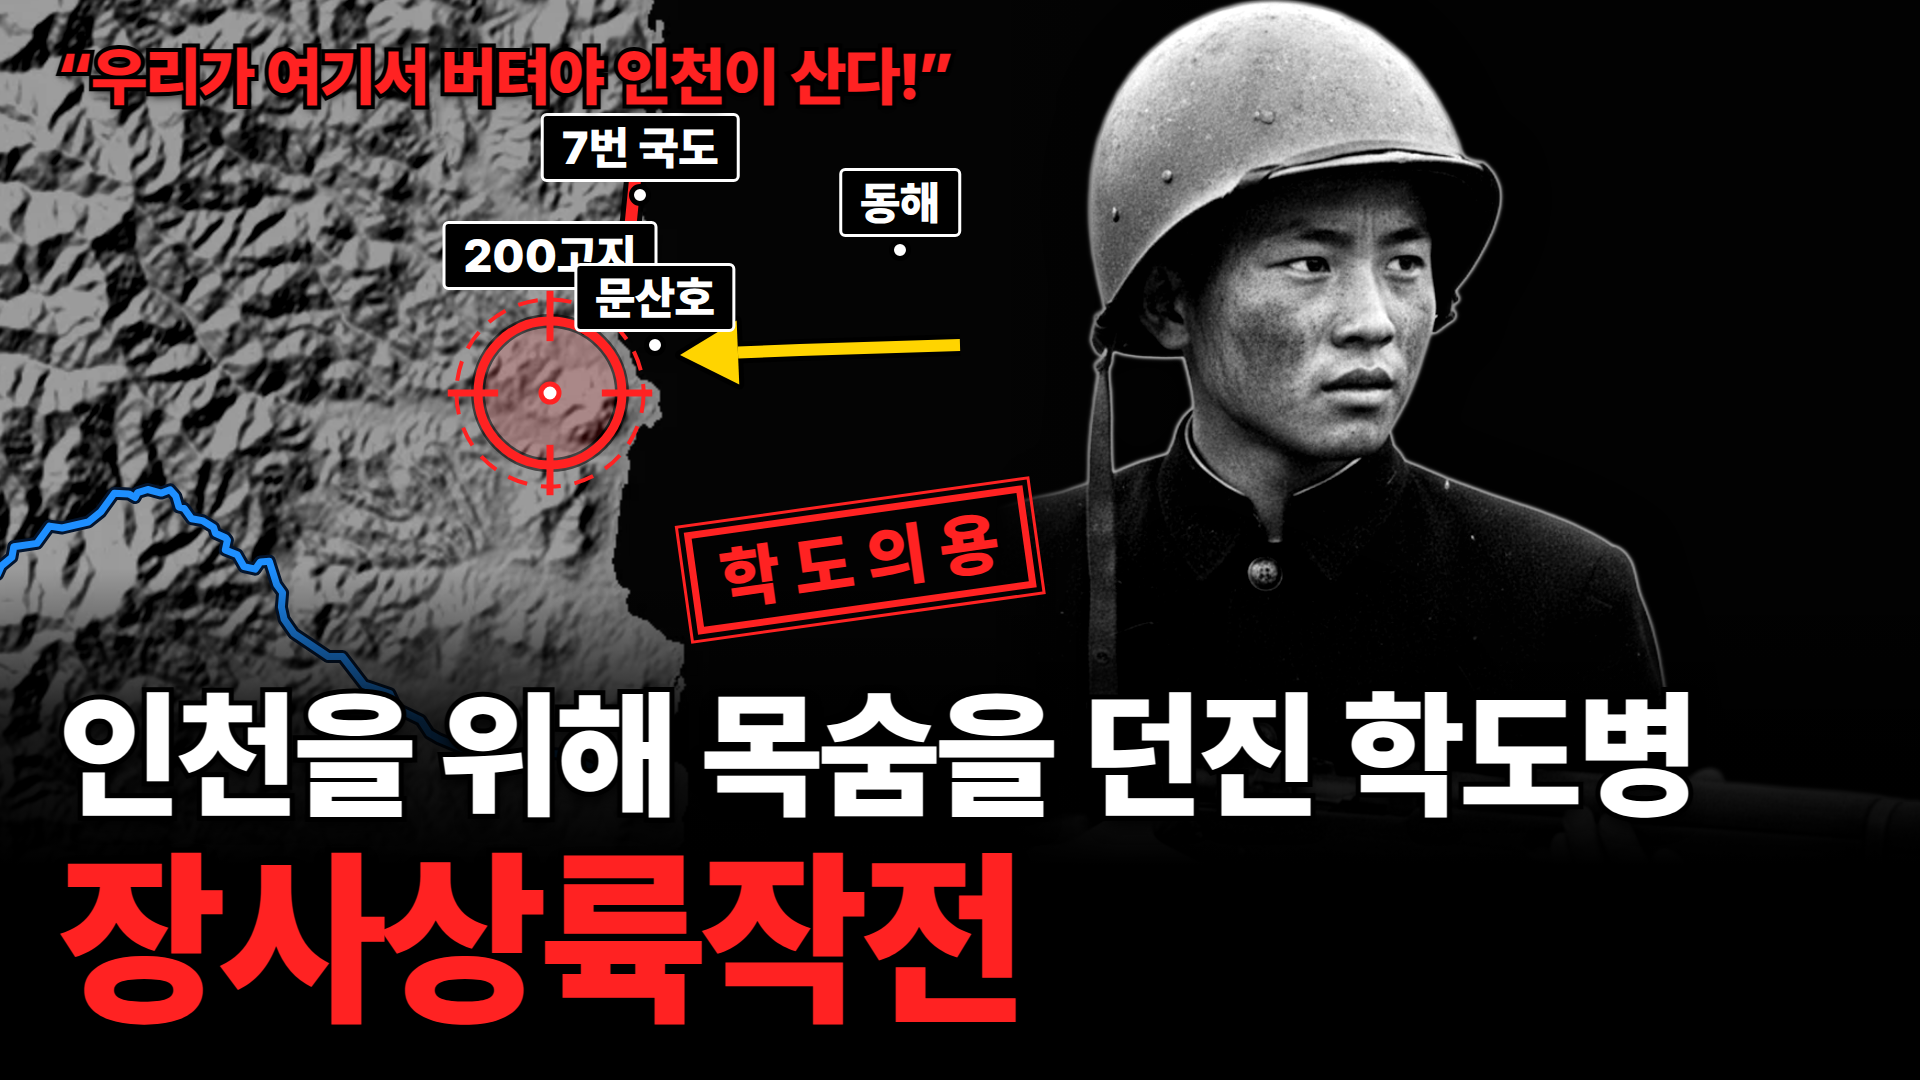
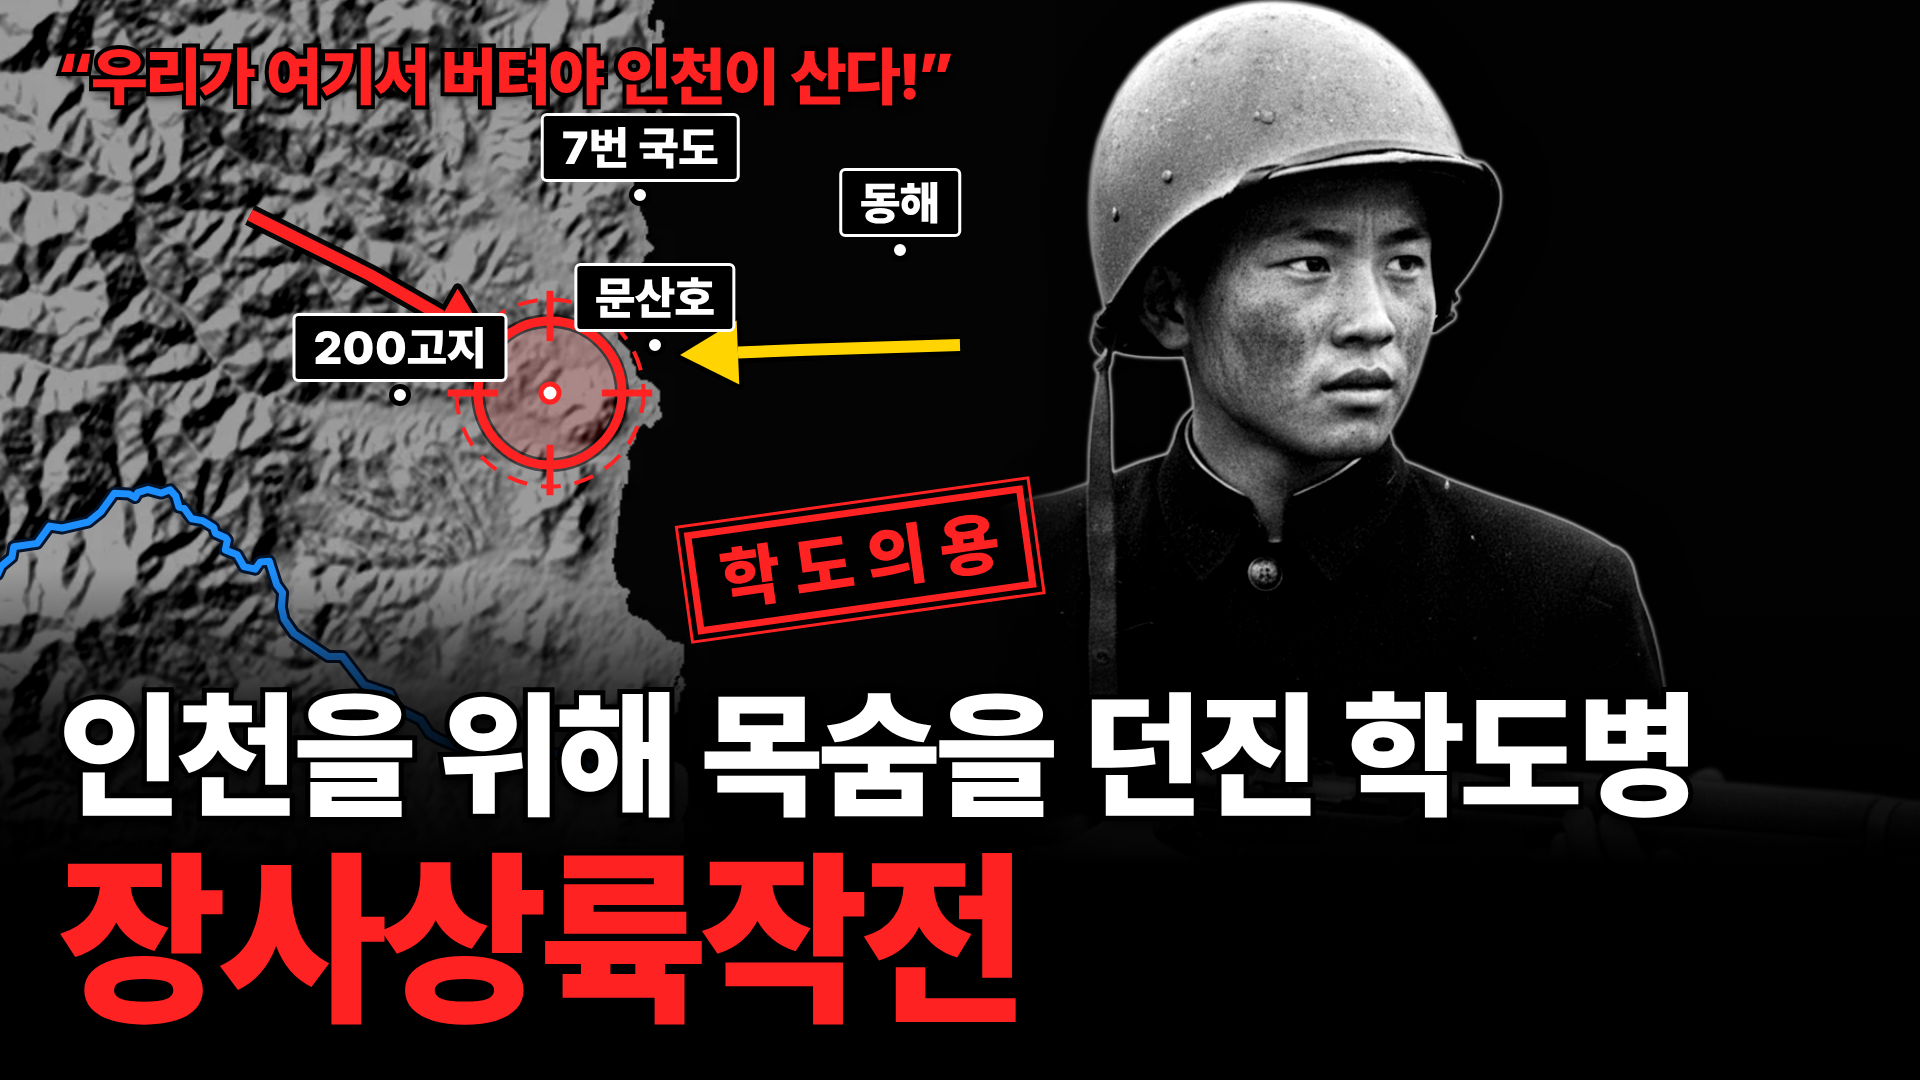
EP23 썸네일 최종본·v4 시안·제작 이력
Claude-Session: https://claude.ai/code/session_01SkesRU1zs27HcMbXLpCKDH

Changed region(s): [[0.125, 0.1833, 0.3438, 0.3667]]

diff --git a/remotion/Thumbnail.tsx b/remotion/Thumbnail.tsx
@@ -261,7 +261,7 @@ export const COLLAGE: Record<string, CollageDef> = {
   // EP23 장사상륙작전 (1950) — 인물: AI 상징 학도병(사료풍 흑백, 세션 rembg 누끼)
   "ep23-jangsari": {
     quote: "군번도 계급도 없었던 772명",
-    person: { src: "ep/ep23-jangsari/ai/thumb_cut.png", h: 690, w: 620, pos: "50% 0%" },
+    person: { src: "ep/ep23-jangsari/ai/thumb_subject.png", h: 690, w: 620, pos: "50% 0%" },
     bubble: { text: "우리가 여기서 버텨야\n인천이 산다!", x: 600, y: 110, tail: [0, 0], size: 44, tailStyle: "short" },
     stamp: { text: "학 도 의 용", x: 450, y: 560, rot: -15 },
     map: {
@@ -1140,10 +1140,10 @@ export const PAROHO_STD: Record<string, ThumbnailProps> = {
     characterCutout: "ep/ep23-jangsari/ai/thumb_subject.png",
     stampText: "학 도 의 용",
     mapCrop: { cx: 0.6127, cy: 0.638, zoom: 1.6 },
-    targets: [{ x: 550, y: 393, r: 72, label: "200고지" }],
-    places: [{ x: 655, y: 345, label: "문산호" }, { x: 640, y: 195, label: "7번 국도" }, { x: 900, y: 250, label: "동해" }],
+    targets: [{ x: 550, y: 393, r: 72 }],
+    places: [{ x: 655, y: 345, label: "문산호" }, { x: 640, y: 195, label: "7번 국도" }, { x: 900, y: 250, label: "동해" }, { x: 400, y: 395, label: "200고지" }],
     arrows: [
-      { pts: [[640, 130], [628, 250], [585, 330]], color: "red" },
+      { pts: [[250, 215], [370, 275], [492, 345]], color: "red" },
       { pts: [[960, 345], [800, 350], [680, 355]], color: "ally" },
     ],
     characterPos: "50% 0%",

diff --git a/CLAUDE.md b/CLAUDE.md
@@ -48,6 +48,8 @@
 
 | 22 포크찹 고지 전투 (1953) — 강뉴 대대 · 제1~7막 · **한국어 단일 · Minho · 쇼츠 없음** · 목표 20:30 | `ep22-pork-chop-hill` | 8,915자(대본) · 132장면 · target_sec 1230 (사용자 지시 6,000~6,500자는 약 14분이라 EP20·21처럼 8,900자로 작성) | 20:22.8 · -15.2 LUFS · 1.26GB · 자막 253/253 · 싱크 ±1.0초 통과 | 없음 — 미드롤 `s37`·`s76`·`s112`, CTA1 `s55`(cta), HUD 오버레이 `s67`, EP23 장사상륙작전 예고. 지형 `porkchop_zoom`(z14) 추가, 고지·전초 좌표 전부 개략. 사진 22장 스카우트 핀, 새 그림 44장(학도병·클레먼스 2장은 프롬프트 수정 재생성 — 학도병은 "NO stars, NO red insignia" 없으면 북한군 복장으로 나옴). **photo 장면에 `pos`(objectPosition) 옵션 추가** — 세로 사진 얼굴 잘림 방지. 썸네일 `COLLAGE["ep22-pork-chop-hill"]` + **에티오피아 삼색기 `et`** 추가, 인물은 1953년 강뉴 대대원 사료 사진(`Ethiopian Soldiers Korean War.jpg`) 세션 rembg 누끼(`thumb_cut.png`). 지시서의 '강뉴 대대가 포크찹 포위망을 뚫고 역습'은 사료 미확인 → 4. 17~18 역습은 미 제7사단(클레먼스 킹 중대)으로, 강뉴 대대는 같은 밤 철원 서쪽 전투·티본 정찰(마셜)·5월 요크 고지 백병전으로 구성 |
 
+| 23 장사상륙작전 (1950) — 학도병 문산호 결사대 · 콜드 오프닝 + 제1~6막 · **한국어 단일 · Minho · 쇼츠 없음** · 목표 20:00 | `ep23-jangsari` | 8,912자(대본, 공백 제외 6,752자) · 127장면 · target_sec 1200 (공백 제외 6,466자 = 19:08 → `s16b`·`s16c`·`s31b`·`s111b` 추가) | 19:58.7 · -15.1 LUFS · 1.23GB · 자막 노출·싱크 검사 통과 | 없음 — 미드롤 `s38`·`s76`·`s95`, CTA1 `s51`(cta), HUD 오버레이 4막 지도(7번 국도), EP24 피의 능선 예고. 지형 `jangsa_sea`(z12)·`jangsa_zoom_sea`(z14, seeds로 바다 칠) 추가 — `ef`처럼 래스터보다 넓은 뷰에 `demSea`를 켜면 사각 경계가 비침. 고지·토치카·7번 국도 좌표는 개략. 사진 13장 스카우트 핀, 새 그림 50장(장교·교관 9장은 "no collar tabs, no shoulder boards, no red" 프롬프트로 재생성 — 없으면 북한군 복장). 썸네일 **v5 첫 적용** `PAROHO_STD["ep23-jangsari"]`(지시서 말풍선 문구는 `quote`로), v4 시안 `thumbnails/ep23-jangsari_ko_V4.png`, 인물 AI 상징 학도병. 지시서의 '구축함 헬레나함'은 중순양함으로 수정(상륙 지원 구축함은 엔디코트) |
+
 → **분량 환산 (EP14·15 실측)**: 콜드 오프닝 6막 구조에서 190자 늘리면 약 25초 늘어남(약 7.6자/초) → **7,980자 = 19:20, 8,170자 = 19:45**. 19:30~20:00을 맞추려면 8,100~8,300자
 
 → **20분 장편 기준 (EP11 실측)**: 한국어 약 8,900자 = 21분. 렌더 한 편 약 2시간(한+영 약 4시간). 렌더 단계는 `TMPDIR`를 작업 디스크로 돌려야 함(러너 /tmp 용량 한도로 20분 오디오 믹싱 실패 — 수정됨), 실패 시 `logs/render_fail_<ep>.txt`에 로그가 남음. 미드롤·목차 시각은 `logs/midroll_<ep>.txt`
